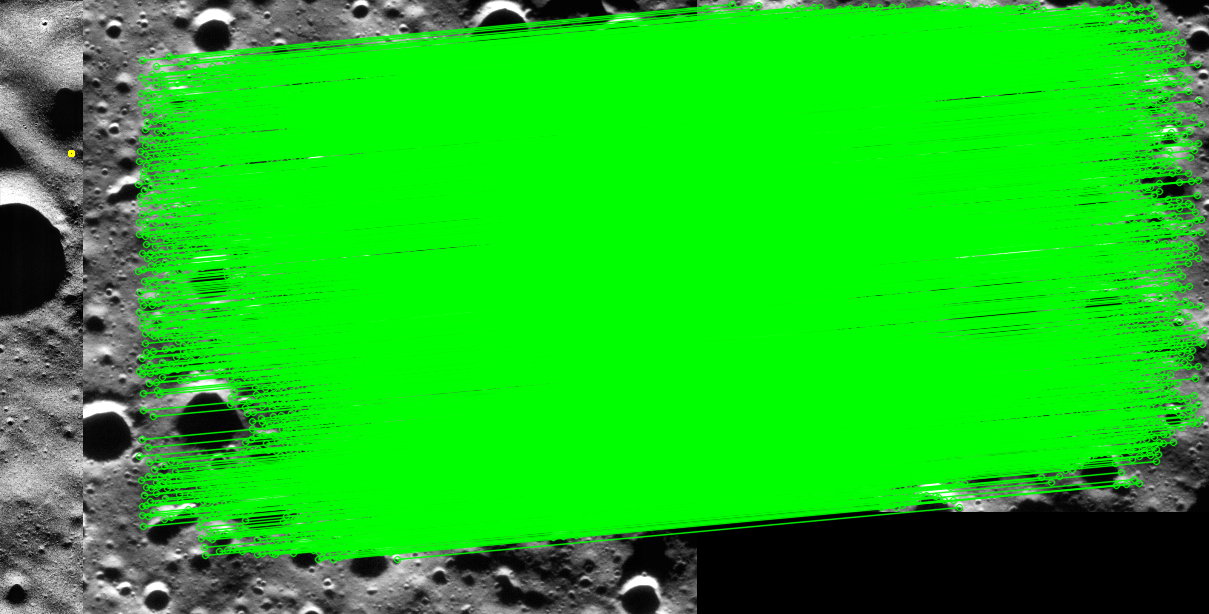
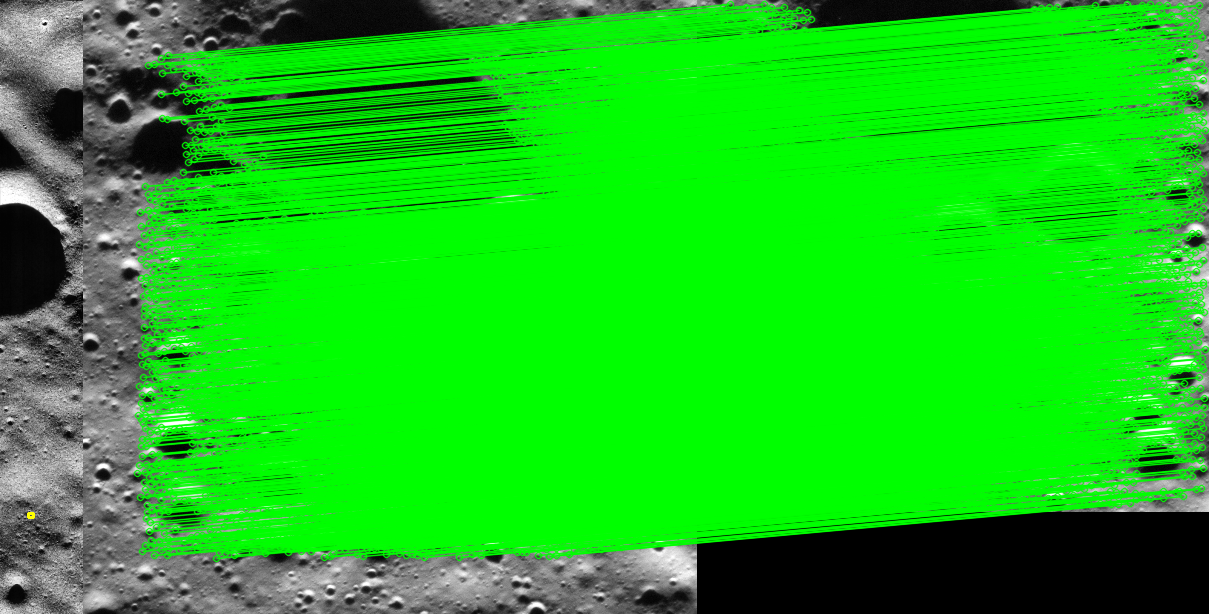
feat: save

Changed region(s): [[0.0612, 0.0, 1.0, 1.0], [0.7957, 0.4642, 0.8569, 0.557]]

diff --git a/ui/app.py b/ui/app.py
@@ -1,46 +1,145 @@
 import sys
 import os
+import re
 from PyQt6.QtWidgets import (QApplication, QMainWindow, QWidget, QVBoxLayout, 
                              QHBoxLayout, QPushButton, QListWidget, QLabel, 
-                             QTextEdit, QFileDialog, QSplitter)
-from PyQt6.QtCore import Qt, QProcess
-from PyQt6.QtGui import QPixmap, QFont
+                             QTextEdit, QFileDialog, QSplitter, QListWidgetItem,
+                             QGridLayout, QFrame)
+from PyQt6.QtCore import Qt, QProcess, QSize
+from PyQt6.QtGui import QPixmap, QFont, QIcon
+
+def ansi_to_html(text):
+    """Parses ANSI terminal color codes and converts them to HTML for QTextEdit."""
+    # Basic ANSI colors mapping to hex
+    colors = {
+        '30': '#000000', '31': '#ff5555', '32': '#50fa7b', '33': '#f1fa8c',
+        '34': '#bd93f9', '35': '#ff79c6', '36': '#8be9fd', '37': '#f8f8f2',
+        '90': '#6272a4', '91': '#ff6e6e', '92': '#69ff94', '93': '#ffffa5',
+        '94': '#d6acff', '95': '#ff92df', '96': '#a4ffff', '97': '#ffffff'
+    }
+    
+    html = text.replace('<', '&lt;').replace('>', '&gt;').replace('\n', '<br>')
+    
+    # Regex to find ANSI escape sequences
+    ansi_escape = re.compile(r'\x1b\[([\d;]+)m')
+    
+    parts = ansi_escape.split(html)
+    result = ""
+    open_span = False
+    
+    for i, part in enumerate(parts):
+        if i % 2 == 0:
+            result += part
+        else:
+            codes = part.split(';')
+            color = None
+            for code in codes:
+                if code in colors:
+                    color = colors[code]
+                elif code == '0':
+                    if open_span:
+                        result += "</span>"
+                        open_span = False
+            
+            if color:
+                if open_span:
+                    result += "</span>"
+                result += f"<span style='color: {color};'>"
+                open_span = True
+                
+    if open_span:
+        result += "</span>"
+        
+    return result
+
 
 class MainWindow(QMainWindow):
     def __init__(self):
         super().__init__()
         self.setWindowTitle("Helios Image Registration Pipeline")
-        self.resize(1000, 700)
+        self.resize(1100, 800)
         self.setup_ui()
         self.process = None
+        
+        # Buffer for stdout to handle split lines when regex matching
+        self.stdout_buffer = ""
+        
+        # Regex patterns for metrics extraction (strips ANSI internally first)
+        self.metric_patterns = {
+            "RMSE": re.compile(r'RMSE\s*\(Accuracy\)[^\d]*([\d.]+\s*px)'),
+            "PSNR": re.compile(r'PSNR\s*\(Radiometric\)[^\d]*([\d.]+\s*dB)'),
+            "SSIM": re.compile(r'SSIM\s*\(Structural\)[^\d]*([\d.]+)'),
+            "Inlier Ratio": re.compile(r'Inlier Ratio[^\d]*([\d.]+\s*%)'),
+            "Uniformity": re.compile(r'Match Uniformity[^\d]*([\d.]+\s*%?(?:\s*covered)?)')
+        }
 
     def setup_ui(self):
-        # Apply dark theme
+        # Apply deep space / research aesthetic theme with new fonts
         self.setStyleSheet("""
             QWidget {
-                background-color: #121212;
+                background-color: #0b0f19;
                 color: #e0e0e0;
-                font-family: 'Segoe UI', Arial, sans-serif;
+                font-family: 'Roboto', 'Inter', 'Segoe UI', sans-serif;
             }
             QPushButton {
-                background-color: #2c2c2c;
-                border: 1px solid #4a4a4a;
+                background-color: #1a2333;
+                border: 1px solid #2a3b5c;
                 border-radius: 4px;
-                padding: 8px 16px;
+                padding: 10px 20px;
                 font-weight: bold;
+                color: #66fcf1;
             }
             QPushButton:hover {
-                background-color: #3c3c3c;
-                border: 1px solid #6a6a6a;
+                background-color: #24344d;
+                border: 1px solid #45a29e;
             }
-            QListWidget, QTextEdit {
-                background-color: #1e1e1e;
-                border: 1px solid #333333;
+            QPushButton:disabled {
+                color: #4b5563;
+                background-color: #111827;
+                border: 1px solid #1f2937;
+            }
+            QListWidget {
+                background-color: #111827;
+                border: 1px solid #1f2937;
                 border-radius: 4px;
             }
+            QListWidget::item:selected {
+                background-color: #1d4ed8;
+                border-radius: 4px;
+            }
+            QTextEdit {
+                background-color: #0d1117;
+                border: 1px solid #30363d;
+                border-radius: 4px;
+                color: #c9d1d9;
+            }
             QLabel {
-                border: 1px solid #333333;
-                background-color: #1a1a1a;
+                background-color: transparent;
+            }
+            QFrame#MetricsPanel {
+                background-color: #111827;
+                border: 1px solid #1f2937;
+                border-radius: 6px;
+            }
+            QLabel#ImageLabel {
+                border: 1px solid #1f2937;
+                background-color: #111827;
+            }
+            QLabel#MetricTitle {
+                font-size: 14px;
+                font-weight: bold;
+                color: #45a29e;
+                border-bottom: 1px solid #1f2937;
+                padding-bottom: 5px;
+            }
+            QLabel#MetricName {
+                color: #9ca3af;
+                font-size: 12px;
+            }
+            QLabel#MetricValue {
+                color: #e5e7eb;
+                font-size: 12px;
+                font-weight: bold;
             }
         """)
 
@@ -48,8 +147,8 @@ class MainWindow(QMainWindow):
         self.setCentralWidget(central_widget)
         
         main_layout = QVBoxLayout(central_widget)
-        main_layout.setContentsMargins(10, 10, 10, 10)
-        main_layout.setSpacing(10)
+        main_layout.setContentsMargins(15, 15, 15, 15)
+        main_layout.setSpacing(15)
 
         # Top Splitter (Left: Folder/List, Right: Image)
         top_splitter = QSplitter(Qt.Orientation.Horizontal)
@@ -63,15 +162,22 @@ class MainWindow(QMainWindow):
         self.btn_select_folder.clicked.connect(self.select_folder)
         
         self.list_widget = QListWidget()
+        self.list_widget.setViewMode(QListWidget.ViewMode.IconMode)
+        self.list_widget.setIconSize(QSize(120, 120))
+        self.list_widget.setResizeMode(QListWidget.ResizeMode.Adjust)
+        self.list_widget.setSpacing(10)
+        self.list_widget.setMovement(QListWidget.Movement.Static)
+        self.list_widget.setWordWrap(True)
         
         left_layout.addWidget(self.btn_select_folder)
         left_layout.addWidget(self.list_widget)
         
         # --- Top Right Panel ---
         self.lbl_image = QLabel("Output Result\n\n(Select an image and run search)")
+        self.lbl_image.setObjectName("ImageLabel")
         self.lbl_image.setAlignment(Qt.AlignmentFlag.AlignCenter)
-        self.lbl_image.setMinimumSize(400, 300)
-        self.lbl_image.setStyleSheet("font-size: 18px; color: #888888;")
+        self.lbl_image.setMinimumSize(500, 400)
+        self.lbl_image.setStyleSheet("font-size: 18px; color: #4b5563; font-weight: bold;")
         
         top_splitter.addWidget(left_panel)
         top_splitter.addWidget(self.lbl_image)
@@ -86,14 +192,60 @@ class MainWindow(QMainWindow):
         self.txt_output = QTextEdit()
         self.txt_output.setReadOnly(True)
         self.txt_output.setFont(QFont("Consolas", 10))
-        self.txt_output.setPlaceholderText("CLI Output...")
+        self.txt_output.setPlaceholderText("Terminal output will appear here...")
+        
+        # Right side of bottom panel (Button + Metrics)
+        bottom_right_panel = QWidget()
+        bottom_right_layout = QVBoxLayout(bottom_right_panel)
+        bottom_right_layout.setContentsMargins(0, 0, 0, 0)
         
         self.btn_register = QPushButton("Register Search")
-        self.btn_register.setMinimumHeight(40)
+        self.btn_register.setMinimumHeight(50)
+        self.btn_register.setStyleSheet("font-size: 16px;")
         self.btn_register.clicked.connect(self.run_registration)
         
+        # Metrics Panel
+        self.metrics_frame = QFrame()
+        self.metrics_frame.setObjectName("MetricsPanel")
+        metrics_layout = QVBoxLayout(self.metrics_frame)
+        
+        title_lbl = QLabel("Evaluation Metrics")
+        title_lbl.setObjectName("MetricTitle")
+        title_lbl.setAlignment(Qt.AlignmentFlag.AlignCenter)
+        metrics_layout.addWidget(title_lbl)
+        
+        grid = QGridLayout()
+        grid.setSpacing(10)
+        self.metrics_labels = {}
+        
+        metric_names = [
+            ("RMSE", "RMSE (Accuracy)"),
+            ("PSNR", "PSNR (Radiometric)"),
+            ("SSIM", "SSIM (Structural)"),
+            ("Inlier Ratio", "Inlier Ratio"),
+            ("Uniformity", "Match Uniformity")
+        ]
+        
+        for i, (key, display_name) in enumerate(metric_names):
+            name_lbl = QLabel(display_name)
+            name_lbl.setObjectName("MetricName")
+            
+            val_lbl = QLabel("-")
+            val_lbl.setObjectName("MetricValue")
+            val_lbl.setAlignment(Qt.AlignmentFlag.AlignRight | Qt.AlignmentFlag.AlignVCenter)
+            
+            grid.addWidget(name_lbl, i, 0)
+            grid.addWidget(val_lbl, i, 1)
+            self.metrics_labels[key] = val_lbl
+            
+        metrics_layout.addLayout(grid)
+        metrics_layout.addStretch()
+        
+        bottom_right_layout.addWidget(self.btn_register)
+        bottom_right_layout.addWidget(self.metrics_frame)
+        
         bottom_layout.addWidget(self.txt_output, stretch=4)
-        bottom_layout.addWidget(self.btn_register, stretch=1)
+        bottom_layout.addWidget(bottom_right_panel, stretch=1)
         
         # Add to main layout
         main_layout.addWidget(top_splitter, stretch=2)
@@ -105,33 +257,40 @@ class MainWindow(QMainWindow):
             self.list_widget.clear()
             for filename in os.listdir(folder):
                 if filename.lower().endswith(('.png', '.jpg', '.jpeg', '.tif', '.tiff')):
-                    self.list_widget.addItem(os.path.join(folder, filename))
+                    filepath = os.path.join(folder, filename)
+                    icon = QIcon(filepath)
+                    item = QListWidgetItem(icon, filename)
+                    item.setData(Qt.ItemDataRole.UserRole, filepath)
+                    self.list_widget.addItem(item)
+                    
+    def reset_metrics(self):
+        for val_lbl in self.metrics_labels.values():
+            val_lbl.setText("-")
 
     def run_registration(self):
         selected_items = self.list_widget.selectedItems()
         if not selected_items:
-            self.txt_output.append("Error: Please select an image from the list first.")
+            self.txt_output.insertHtml("<span style='color: #ff5555;'>Error: Please select an image from the list first.</span><br>")
             return
             
-        query_img_path = selected_items[0].text()
+        query_img_path = selected_items[0].data(Qt.ItemDataRole.UserRole)
         
-        # Hardcoded paths based on previous CLI example
         isro_img = "/media/friday/Toshiba Drive/FILES/helios/ISRO/pradan.issdc.gov.in/ch2/protected/downloadData/POST_OD/isda_archive/ch2_bundle/cho_bundle/nop/ohr_collection/data/calibrated/20260102/data/calibrated/20260102/ch2_ohr_ncp_20260102T1819015920_d_img_d18.img"
         isro_xml = "/media/friday/Toshiba Drive/FILES/helios/ISRO/pradan.issdc.gov.in/ch2/protected/downloadData/POST_OD/isda_archive/ch2_bundle/cho_bundle/nop/ohr_collection/data/calibrated/20260102/data/calibrated/20260102/ch2_ohr_ncp_20260102T1819015920_d_img_d18.xml"
         index_h5 = "/home/friday/hhh/reference_features.h5"
         output_png = "/home/friday/helios1/outputs/ui_result.png"
         
-        # Ensure outputs directory exists
         os.makedirs(os.path.dirname(output_png), exist_ok=True)
         
         self.btn_register.setEnabled(False)
         self.txt_output.clear()
-        self.txt_output.append(f"Starting registration for: {os.path.basename(query_img_path)}...\n")
+        self.reset_metrics()
+        self.stdout_buffer = ""
+        self.txt_output.insertHtml(f"<span style='color: #8be9fd;'>Starting registration for: {os.path.basename(query_img_path)}...</span><br>")
         
         self.lbl_image.setText("Running registration...\nPlease wait.")
-        self.lbl_image.setPixmap(QPixmap()) # clear image
+        self.lbl_image.setPixmap(QPixmap()) 
         
-        # Change directory to the main project root
         project_root = os.path.dirname(os.path.dirname(os.path.abspath(__file__)))
         
         self.process = QProcess(self)
@@ -140,9 +299,12 @@ class MainWindow(QMainWindow):
         self.process.readyReadStandardError.connect(self.handle_stderr)
         self.process.finished.connect(self.process_finished)
         
-        # Use python from the virtualenv if it exists
         venv_python = os.path.join(project_root, ".venv", "bin", "python")
         python_exec = venv_python if os.path.exists(venv_python) else "python"
+        
+        env = self.process.processEnvironment()
+        env.insert("FORCE_COLOR", "1")
+        self.process.setProcessEnvironment(env)
         
         args = [
             "main.py", "register",
@@ -155,27 +317,43 @@ class MainWindow(QMainWindow):
         
         self.process.start(python_exec, args)
 
+    def extract_metrics(self, raw_text):
+        # Strip ANSI codes for regex matching
+        clean_text = re.sub(r'\x1b\[[\d;]*m', '', raw_text)
+        
+        for key, pattern in self.metric_patterns.items():
+            match = pattern.search(clean_text)
+            if match:
+                self.metrics_labels[key].setText(match.group(1).strip())
+
     def handle_stdout(self):
-        data = self.process.readAllStandardOutput().data().decode('utf-8')
-        self.txt_output.append(data.strip())
+        data = self.process.readAllStandardOutput().data().decode('utf-8', errors='replace')
+        
+        # Accumulate buffer for metric extraction in case a line is split
+        self.stdout_buffer += data
+        self.extract_metrics(self.stdout_buffer)
+        
+        html_data = ansi_to_html(data)
+        self.txt_output.insertHtml(html_data)
         scrollbar = self.txt_output.verticalScrollBar()
         scrollbar.setValue(scrollbar.maximum())
 
     def handle_stderr(self):
-        data = self.process.readAllStandardError().data().decode('utf-8')
-        # Use raw string to avoid rich formatting escaping issues, but display in UI
-        self.txt_output.append(data.strip())
+        data = self.process.readAllStandardError().data().decode('utf-8', errors='replace')
+        html_data = ansi_to_html(data)
+        if not html_data.startswith("<span"):
+            html_data = f"<span style='color: #ff5555;'>{html_data}</span>"
+        self.txt_output.insertHtml(html_data)
         scrollbar = self.txt_output.verticalScrollBar()
         scrollbar.setValue(scrollbar.maximum())
 
     def process_finished(self):
         self.btn_register.setEnabled(True)
-        self.txt_output.append("\nProcess finished.")
+        self.txt_output.insertHtml("<br><br><span style='color: #50fa7b;'>Process finished.</span>")
         
         output_png = "/home/friday/helios1/outputs/ui_result.png"
         if os.path.exists(output_png):
             pixmap = QPixmap(output_png)
-            # Scale pixmap to fit label while keeping aspect ratio
             scaled_pixmap = pixmap.scaled(self.lbl_image.size(), Qt.AspectRatioMode.KeepAspectRatio, Qt.TransformationMode.SmoothTransformation)
             self.lbl_image.setPixmap(scaled_pixmap)
             self.lbl_image.setText("")
